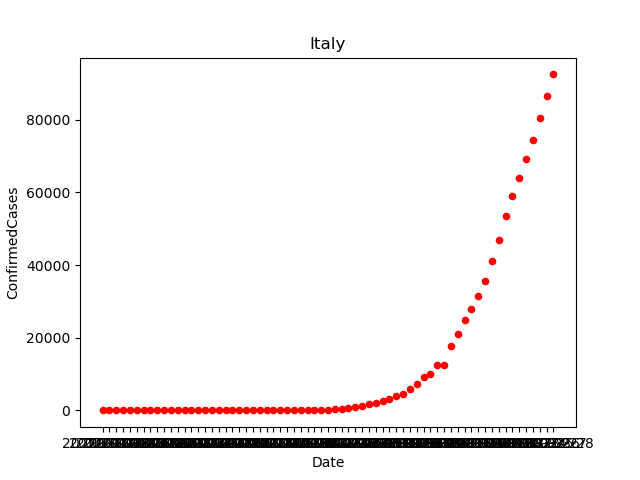
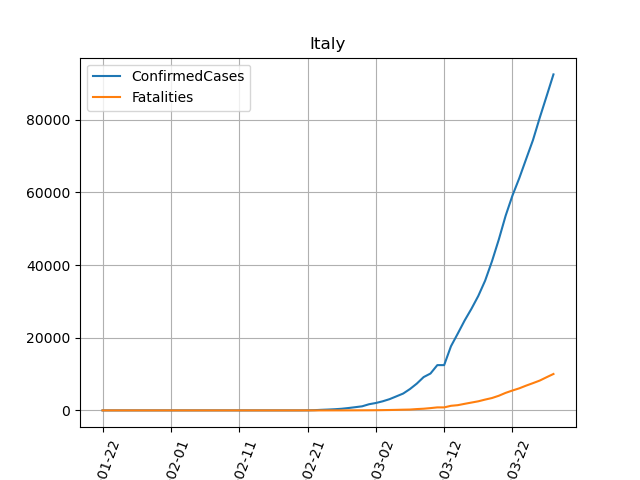
added log Y plots

diff --git a/src/plotter.py b/src/plotter.py
@@ -5,110 +5,79 @@ import matplotlib.pyplot as plt
 import numpy as np
 from numpy import asarray
 from numpy import savetxt
+import re
+import shutil
 
+sample_plots = [
+    'Afghanistan',
+    'China-Hubei',
+    'Italy',
+    'US-NewYork',
+    'US-NorthCarolina'
+]
 
-
-train = pd.read_csv("./data/train.csv")
-
-# Clean Ups
-# 1. Transform '"Korea, South"' to 'South Korea'
-
-# 2. Transform 'Taiwan*' to 'Taiwan'
-
-#train.Country_Region = train.Country_Region.replace({'"Korea, South"': 'South Korea'})
-#train.Country_Region = train.Country_Region.replace({'Taiwan*': 'Taiwan'})
-train['Country_Region'] = train['Country_Region'].replace('Korea, South', 'South Korea')
-train['Country_Region'] = train['Country_Region'].replace('Taiwan*', 'Taiwan')
-
-regions = train['Country_Region'].unique()
-
-#train.columns
-#Index(['Id', 'Province_State', 'Country_Region', 'Date', 'ConfirmedCases','Fatalities'], dtype='object')
-#List unique values in the train['Country_Region'] column
-
-regions_df = pd.DataFrame(data=regions, columns=["country_region"])
-filename = os.path.join("./processed_data/regions.csv")
-regions_df.to_csv(filename, header=False, index=False, index_label=False)
-
-states = train['Province_State'].unique()
-#print(states[0])
-#print(states.index(np.nan))
-#print(states[np.isnan(states)])
-
-#print(type(states))
-#print(states[0])
-
-# Filter nan
-
-# array([nan, 'Australian Capital Territory', 'New South Wales',
-#        'Northern Territory', 'Queensland', 'South Australia', 'Tasmania',
-#        'Victoria', 'Western Australia', 'Alberta', 'British Columbia',
-#        'Manitoba', 'New Brunswick', 'Newfoundland and Labrador',
-#        'Nova Scotia', 'Ontario', 'Prince Edward Island', 'Quebec',
-#        'Saskatchewan', 'Anhui', 'Beijing', 'Chongqing', 'Fujian', 'Gansu',
-#        'Guangdong', 'Guangxi', 'Guizhou', 'Hainan', 'Hebei',
-#        'Heilongjiang', 'Henan', 'Hong Kong', 'Hubei', 'Hunan',
-#        'Inner Mongolia', 'Jiangsu', 'Jiangxi', 'Jilin', 'Liaoning',
-#        'Macau', 'Ningxia', 'Qinghai', 'Shaanxi', 'Shandong', 'Shanghai',
-#        'Shanxi', 'Sichuan', 'Tianjin', 'Tibet', 'Xinjiang', 'Yunnan',
-#        'Zhejiang', 'Faroe Islands', 'Greenland', 'French Guiana',
-#        'French Polynesia', 'Guadeloupe', 'Martinique', 'Mayotte',
-#        'New Caledonia', 'Reunion', 'Saint Barthelemy', 'St Martin',
-#        'Aruba', 'Curacao', 'Sint Maarten', 'Alabama', 'Alaska', 'Arizona',
-#        'Arkansas', 'California', 'Colorado', 'Connecticut', 'Delaware',
-#        'District of Columbia', 'Florida', 'Georgia', 'Guam', 'Hawaii',
-#        'Idaho', 'Illinois', 'Indiana', 'Iowa', 'Kansas', 'Kentucky',
-#        'Louisiana', 'Maine', 'Maryland', 'Massachusetts', 'Michigan',
-#        'Minnesota', 'Mississippi', 'Missouri', 'Montana', 'Nebraska',
-#        'Nevada', 'New Hampshire', 'New Jersey', 'New Mexico', 'New York',
-#        'North Carolina', 'North Dakota', 'Ohio', 'Oklahoma', 'Oregon',
-#        'Pennsylvania', 'Puerto Rico', 'Rhode Island', 'South Carolina',
-#        'South Dakota', 'Tennessee', 'Texas', 'Utah', 'Vermont',
-#        'Virgin Islands', 'Virginia', 'Washington', 'West Virginia',
-#        'Wisconsin', 'Wyoming', 'Bermuda', 'Cayman Islands',
-#        'Channel Islands', 'Gibraltar', 'Isle of Man', 'Montserrat'],
-#       dtype=object)
-
-states_tmp = []
-
-for value in states:
-    if type(value)==str:
-        if len(value)>0:
-            states_tmp.append(value)
-
-states = states_tmp
-
-states_df = pd.DataFrame(data=states, columns=["states"])
-
-filename = os.path.join("./processed_data/states.csv")
-states_df.to_csv(filename, header=False, index=False, index_label=False)
-
-# result = np.where(states == np.nan)
-# print('result : ', result)
-# result = states[np.isnan(states)]
-# print('result : ', result)
-
-# result = np.where(states == 'Australian Capital Territory')
-# print('result : ', result)
-# for item in result:
-#     print(item[0], states[item[0]])
-
-#result = numpy.where(states == "")
-#print('result : ', result)
-
-# type(train['Country_Region'])
-#number_of_regions = len(regions)
-#train.plot(kind='scatter',x='Date',y='ConfirmedCases',color='red')
-#plt.show()
-
-
-for index, region in enumerate(regions):
-    print(index, region)
-
-    where =  train['Country_Region']==region
+def plot(df, region, state, logy=False):
     
-    df = train[where]
-    states = df['Province_State'].unique()
+    # Remove internal white space because Markdown doesn't like filename with spaces.
+    if state:
+        state = state.replace(" ", "") 
+        title = "{}-{}".format(region, state)
+        if logy:
+            png_name = "{}-{}-logy.png".format(region, state)
+            title = title + " Log Y"
+        else:
+            png_name = "{}-{}.png".format(region, state)
+
+        filename = os.path.join("./plots/{}".format(png_name))
+    else:
+        title = "{}".format(region)
+        if logy:
+            png_name = "{}-logy.png".format(region)
+            title = title + " Log Y"
+        else:
+            png_name = "{}.png".format(region)
+
+        filename = os.path.join("./plots/{}".format(png_name))
+
+    if logy:
+        ax = df.plot(logy=True, kind='line',x='Date',y=['ConfirmedCases','Fatalities'],title=title)
+    else:
+        ax = df.plot(kind='line',x='Date',y=['ConfirmedCases','Fatalities'],title=title)
+
+    try:
+        ax.set_xlabel("Date")
+        # Display grid
+        plt.grid(True, which="both")
+        plt.xticks(rotation=70)
+        plt.savefig(filename)
+        plt.close()
+    except Exception as exp:
+        print(exp)
+
+    print(png_name)
+    if logy:
+        if png_name[0:-9] in sample_plots:
+            shutil.copyfile(filename,  os.path.join("./samples/{}".format(png_name)))
+    else:
+        if png_name[0:-4] in sample_plots:
+            shutil.copyfile(filename,  os.path.join("./samples/{}".format(png_name)))
+
+def main():
+    train = pd.read_csv("./data/train.csv")
+
+    # Clean Ups
+    # 1. Transform '"Korea, South"' to 'South Korea'
+    # 2. Transform 'Taiwan*' to 'Taiwan'
+    train['Country_Region'] = train['Country_Region'].replace('Korea, South', 'South Korea')
+    train['Country_Region'] = train['Country_Region'].replace('Taiwan*', 'Taiwan')
+
+    regions = train['Country_Region'].unique()
+
+    regions_df = pd.DataFrame(data=regions, columns=["country_region"])
+    filename = os.path.join("./processed_data/regions.csv")
+    regions_df.to_csv(filename, header=False, index=False, index_label=False)
+
+    states = train['Province_State'].unique()
 
     states_tmp = []
 
@@ -119,35 +88,33 @@ for index, region in enumerate(regions):
 
     states = states_tmp
 
-    if len(states)>0:
-        #print(states)
-        #states_df = pd.DataFrame(data=states, columns=["states"])
-        for state in states:
-            print(state)
-            where2 =  df['Province_State']==state
-            df2 = df[where2]
-            print(df2.head(3))
-            title = "{}-{}".format(region, state)
-            df2.plot(kind='scatter',x='Date',y='ConfirmedCases',color='red', title = title)
-            try:
-                filename = os.path.join("./plots/{}-{}.png".format(region, state))
-                print(filename)
-                plt.savefig(filename)
-                plt.close()
-            except Exception as exp:
-                print(exp)
+    states_df = pd.DataFrame(data=states, columns=["states"])
 
-        #sys.exit()
-    else:
-        title = "{}".format(region)
-        #print(df.head(3))
+    filename = os.path.join("./processed_data/states.csv")
+    states_df.to_csv(filename, header=False, index=False, index_label=False)
 
-        df.plot(kind='scatter',x='Date',y='ConfirmedCases',color='red', title=title)
-        #plt.show()
-        try:
-            filename = os.path.join("./plots/{}.png".format(region))
-            plt.savefig(filename)
-            plt.close()
-        except Exception as exp:
-            print(exp)
+    for index, region in enumerate(regions):
+        where =  train['Country_Region']==region
+        df = train[where]
+        states = df['Province_State'].unique()
+        states_tmp = []
+        for value in states:
+            if type(value)==str:
+                if len(value)>0:
+                    states_tmp.append(value)
 
+        states = states_tmp
+
+        if len(states)>0:
+            for state in states:
+                where2 =  df['Province_State']==state
+                df2 = df[where2]
+                plot(df2, region, state, logy=False)
+                plot(df2, region, state, logy=True)
+        else:
+            title = "{}".format(region)
+            plot(df, region, state=None, logy=False)
+            plot(df, region, state=None, logy=True)
+
+if __name__== "__main__":
+  main()

diff --git a/README.md b/README.md
@@ -8,8 +8,16 @@ Sample of Results
 
 1. ![China Hubei Province](./samples/China-Hubei.png)
 
+1. ![China Hubei Province Log Y](./samples/China-Hubei-logy.png)
+
 1. ![Italy](./samples/Italy.png)
+
+1. ![Italy Log Y](./samples/Italy-logy.png)
 
 1. ![United States New York](./samples/US-NewYork.png)
 
+1. ![United States New York Log Y](./samples/US-NewYork-logy.png)
+
 1. ![United States North Carolina](./samples/US-NorthCarolina.png)
+
+1. ![United States North Carolina Log Y](./samples/US-NorthCarolina-logy.png)
